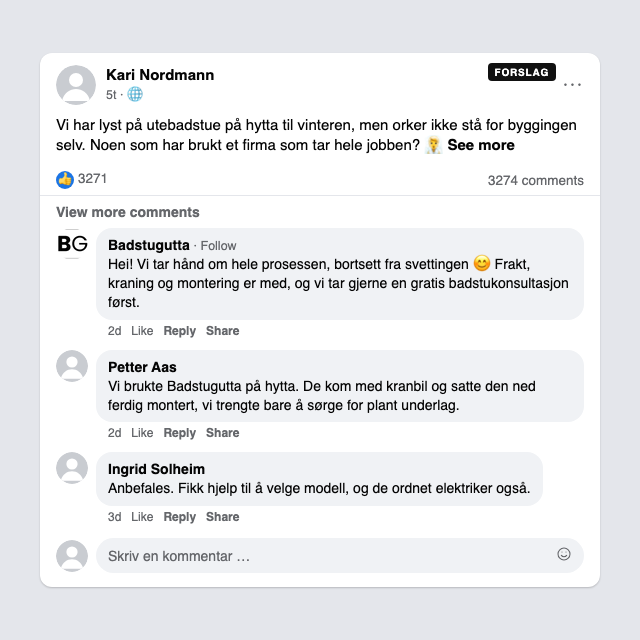
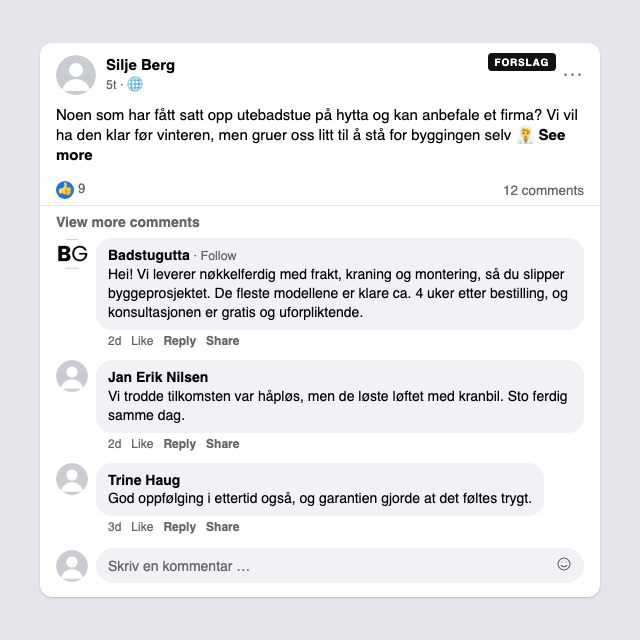
Demo-LP arcads.no/pipeline-test/ (noindex)

Changed region(s): [[0.0625, 0.0625, 0.9375, 0.9375]]

diff --git a/pipeline-test/forslag.html b/pipeline-test/forslag.html
@@ -54,17 +54,15 @@ footer{border-top:1px solid var(--line);padding:26px 0 40px;color:var(--muted);f
   <section class="ads"><article class="ad">
   <div><img src="img/annonse-1.png" alt="Nabolag-annonsen for Badstugutta" loading="lazy"><a class="dl" href="img/annonse-1.png" download>Last ned bildet ↓</a></div>
   <div><span class="n">Annonse 1</span><h2>Nabolag-annonsen</h2><div class="fmt">Feed 1:1</div>
-  <p class="why">Anbefalings-vinkelen. Bygger på sitatet «Vi tar hånd om hele prosessen, bortsett fra svettingen» og på at frakt, kraning og montering er inkludert. De to kundekommentarene i bildet er EKSEMPELTEKST og må byttes med ekte kundesitater før den kjøres.</p><div class="f"><small>Primærtekst</small><div>Vi har lyst på utebadstue på hytta til vinteren, men orker ikke stå for byggingen selv. Noen som har brukt et firma som tar hele jobben? 🧖
-
-(Badstugutta svarer i kommentarfeltet: «Hei! Vi tar hånd om hele prosessen, bortsett fra svettingen 😊 Frakt, kraning og montering er med, og vi tar gjerne en gratis badstukonsultasjon først.»)</div><button class="cp" type="button">Kopier</button></div><div class="f"><small>Overskrift</small><div>Vi er Badstugutta</div><button class="cp" type="button">Kopier</button></div><div class="f"><small>Knapp</small><div>Les mer</div><button class="cp" type="button">Kopier</button></div></div>
+  <p class="why">Anbefalings-vinkelen: folk spør naboen før de spør Google. Svaret i kommentarfeltet bygger på nøkkelferdig levering «med frakt, kraning og montering» og «ca. 4 uker» fra badstugutta.no. Kundekommentarene er eksempeltekst og speiler kranbil-løftet og garantien som står på siden.</p><div class="f"><small>Primærtekst</small><div>Noen som har fått satt opp utebadstue på hytta og kan anbefale et firma? Vi vil ha den klar før vinteren, men gruer oss litt til å stå for byggingen selv 🧖</div><button class="cp" type="button">Kopier</button></div><div class="f"><small>Overskrift</small><div>Nøkkelferdig badstue, ca. 4 uker</div><button class="cp" type="button">Kopier</button></div><div class="f"><small>Knapp</small><div>Book gratis konsultasjon</div><button class="cp" type="button">Kopier</button></div></div>
 </article><article class="ad">
-  <div><img src="img/annonse-2.png" alt="Bildeannonsen for Badstugutta" loading="lazy"><a class="dl" href="img/annonse-2.png" download>Last ned bildet ↓</a></div>
-  <div><span class="n">Annonse 2</span><h2>Bildeannonsen</h2><div class="fmt">Feed</div>
-  <p class="why">Turnkey-vinkelen: svarer på den første innvendingen - «jeg orker ikke prosjektet». Alt står på badstugutta.no (frakt/kraning/montering, 300+ leveringer, kranbil eller helikopter).</p><div class="f"><small>Primærtekst</small><div>Du peker hvor den skal stå. Vi tar frakt, kraning og montering, og koordinerer elektrikeren. Over 300 leveringer i hele Norge, og kranbil eller helikopter der tilkomsten krever det.</div><button class="cp" type="button">Kopier</button></div><div class="f"><small>Overskrift</small><div>Vi tar hele jobben - fra idé til damp</div><button class="cp" type="button">Kopier</button></div><div class="f"><small>Knapp</small><div>Få pristilbud</div><button class="cp" type="button">Kopier</button></div></div>
+  <div><img src="img/annonse-2.png" alt="Notat-annonsen for Badstugutta" loading="lazy"><a class="dl" href="img/annonse-2.png" download>Last ned bildet ↓</a></div>
+  <div><span class="n">Annonse 2</span><h2>Notat-annonsen</h2><div class="fmt">Feed 4:5</div>
+  <p class="why">Tvil-vinkelen: den som vurderer badstue stopper på prosjektet, ikke på badstua. Notatet er en hytteeiers egen huskeliste, og de tre punktene under «Sjekket Badstugutta» står ordrett som nøkkelferdig levering, ca. 4 uker og gratis uforpliktende konsultasjon på siden deres.</p><div class="f"><small>Primærtekst</small><div>Denne lista har vi vel alle hatt liggende på hytta 😅</div><button class="cp" type="button">Kopier</button></div><div class="f"><small>Overskrift</small><div>Du peker hvor den skal stå, vi tar resten</div><button class="cp" type="button">Kopier</button></div><div class="f"><small>Knapp</small><div>Få tilbud</div><button class="cp" type="button">Kopier</button></div></div>
 </article><article class="ad story">
-  <div><img src="img/annonse-3.png" alt="Tilbudsannonsen for Badstugutta" loading="lazy"><a class="dl" href="img/annonse-3.png" download>Last ned bildet ↓</a></div>
-  <div><span class="n">Annonse 3</span><h2>Tilbudsannonsen</h2><div class="fmt">Story/Reels 9:16</div>
-  <p class="why">Tid- og tilbuds-vinkelen. Bygger på den gratis badstukonsultasjonen dere allerede tilbyr og på leveringstiden ca. 4 uker som står på siden. Ingen pris eller rabatt er nevnt.</p><div class="f"><small>Primærtekst</small><div>Vet du ikke hvilken modell som passer tomta? Det er nettopp det konsultasjonen er til for. Den er gratis og uforpliktende, og ferdigbygde modeller leveres ca. 4 uker etter bestilling.</div><button class="cp" type="button">Kopier</button></div><div class="f"><small>Overskrift</small><div>Gratis badstukonsultasjon</div><button class="cp" type="button">Kopier</button></div><div class="f"><small>Knapp</small><div>Book nå</div><button class="cp" type="button">Kopier</button></div></div>
+  <div><img src="img/annonse-3.png" alt="Snap-annonsen for Badstugutta" loading="lazy"><a class="dl" href="img/annonse-3.png" download>Last ned bildet ↓</a></div>
+  <div><span class="n">Annonse 3</span><h2>Snap-annonsen</h2><div class="fmt">Snapchat / story 9:16</div>
+  <p class="why">Tid-vinkelen, skrevet som en snap fra en som nettopp fikk badstua på plass. Bildet er deres eget fra badstugutta.no, og alt teksten påstår (frakt, kraning og montering) står på kolleksjonssiden. Ingen pris nevnt.</p><div class="f"><small>Primærtekst</small><div>endelig badstue bak hytta 🥹 de tok frakt, kran og montering</div><button class="cp" type="button">Kopier</button></div><div class="f"><small>Overskrift</small><div>Gratis badstukonsultasjon</div><button class="cp" type="button">Kopier</button></div><div class="f"><small>Knapp</small><div>Mer info</div><button class="cp" type="button">Kopier</button></div></div>
 </article></section>
   <section class="lp"><div><h2>Landingssiden annonsene sender folk til</h2><p>Én side, ett tilbud, ett skjema. Vi kobler skjemaet til e-posten deres når dere vil ta den i bruk.</p></div><a class="btn" href="./">Åpne landingssiden →</a></section>
 </main>
